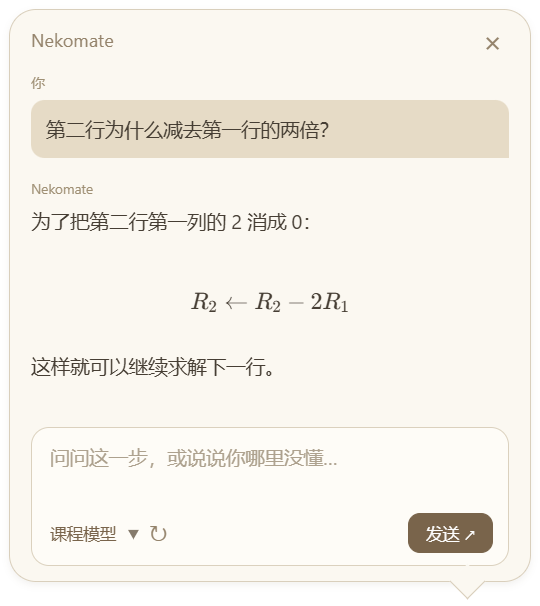
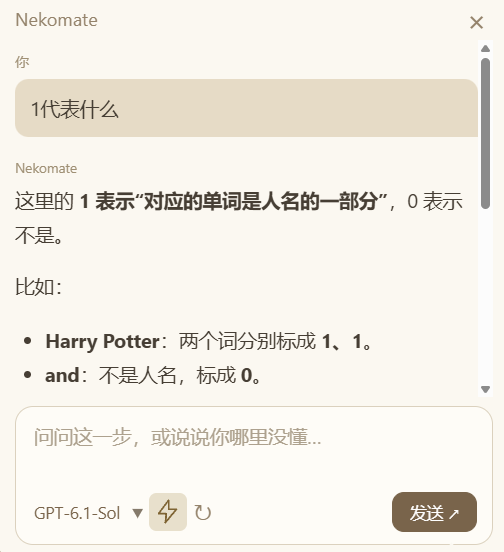
Add bilingual README and localized chat previews

diff --git a/README.en.md b/README.en.md
@@ -1,0 +1,200 @@
+<p align="center">
+  <a href="README.md">简体中文</a> | <strong>English</strong>
+</p>
+
+# Nekomate
+
+Online lectures can be difficult and fast-paced. You want to ask an AI what the instructor meant, so you take a screenshot, rewind to quote them, and explain what came before—only to get an answer that misses the point because the model lacks the course context. Nekomate is here to help! No more taking screenshots by hand or struggling to explain the context of your lecture. Your little cat classmate has you covered!
+
+Nekomate is your little cat classmate, keeping you company during online classes. When something confuses you, just ask, “What does the orange rectangle on the slide mean?” You do not have to explain, “I'm taking a course on… The instructor was just talking about… Look at this screenshot and tell me what xxx means in that sentence. Earlier, they said…” Like a classmate sitting beside you, Nekomate follows the course and what the instructor was just explaining. Ask your question and get a clear, accurate explanation!
+
+<div align="center">
+
+<img src="assets/nekomate.png" alt="Nekomate cat" width="112" />
+
+<h1>Nekomate</h1>
+
+<p><strong>Your little cat classmate. Let's learn together!</strong></p>
+<p>Focus on your questions, with the context taken care of.</p>
+
+<p>
+  <img src="https://img.shields.io/badge/Windows-10%20%2F%2011%20x64-8B7355?style=flat-square" alt="Windows 10 / 11 x64" />
+  <img src="https://img.shields.io/badge/status-0.1%20preview-B39972?style=flat-square" alt="0.1 early preview" />
+  <img src="https://img.shields.io/badge/UI-Chinese%20%2F%20English-8B7355?style=flat-square" alt="Chinese and English interface" />
+  <img src="https://img.shields.io/badge/ASR-local-B39972?style=flat-square" alt="Local speech transcription by default" />
+</p>
+
+<p>
+  <a href="#preview">Preview</a> ·
+  <a href="#quick-start">Quick start</a> ·
+  <a href="#features">Features</a> ·
+  <a href="#connections">Model connections</a> ·
+  <a href="#faq">FAQ</a> ·
+  <a href="#development">Development</a>
+</p>
+
+</div>
+
+---
+
+When something in a lecture confuses you, you may only want to ask, “What did the instructor mean by…?” But to help the model understand, you end up taking screenshots, rewinding the video, quoting the instructor, and filling in the background.
+
+Nekomate handles that preparation in the background: it samples the course window you select, captures the current screen when you ask a question, transcribes the recent explanation, and adds the new material to your current learning conversation. Ask directly and follow up without introducing the course from scratch each time.
+
+> “Why can we rearrange it like this?”　“What is $W$ here?”　“How does this relate to the earlier definition?”
+
+<a id="preview"></a>
+
+## Your little cat classmate, right there with you in class
+
+<p align="center">
+  <img src="docs/bubble.en.png" alt="English translation of a Nekomate chat explaining how words in a person's name are labeled" width="440" />
+</p>
+
+<p align="center"><sub>Chat preview, translated into English · Ask directly about what you do not understand in the course.</sub></p>
+
+Click the cat to open the chat, then close the bubble to keep watching. Right-click to open settings, pause learning, or start a new learning session. Drag the cat off the edge of the screen to leave just two ears showing; move the mouse nearby to reveal a little forehead, then click to bring the cat back. While listening to class, the cat sits still with an open book in front of it.
+
+<a id="quick-start"></a>
+
+## Quick start
+
+For **Windows 10/11 x64**. Download the latest version from Releases, or install Node.js 22+ (24 recommended) and run the following in a terminal:
+
+```bash
+git clone https://github.com/dmkom522/Nekomate.git
+cd Nekomate
+npm ci
+npm start
+```
+
+Before the first launch from source, the local speech model and runtime are downloaded and verified, so an internet connection is required. You do not need to install Python separately. See the [license notes](#license) below for the binary release status.
+
+1. **Connect a model.** Right-click the cat to open API Settings, then choose a service, connection method, and model that supports image input. API connections use your own key; CLI tools must be installed and signed in beforehand. Save your configuration before starting a learning session.
+2. **Choose your course.** Select the browser, video player, or slide window you are watching, check the preview, and start learning. On Windows, you can choose whether to capture system audio.
+3. **Ask directly.** Click the cat and type what you do not understand. A fresh screenshot is sent together with your question, and the answer appears progressively in the chat bubble.
+
+Nekomate does not include model credits. Usage fees, account permissions, and service limits are determined by your chosen API or CLI provider. See the [User Guide](docs/USER_GUIDE.md) for detailed instructions.
+
+<a id="features"></a>
+
+## Let Nekomate handle the context so you can focus on class
+
+| Feature | What it does for you |
+| --- | --- |
+| Direct image input when you ask | Captures the current course screen and sends it with your question, saving you from taking screenshots or describing where to look. |
+| Course context collected in the background | Automatic screenshots are at least 30 seconds apart, with no repeat submissions when the screen has not changed significantly. Visible concepts, formulas, and derivations are recorded. Early in a new conversation, Nekomate identifies the course; connections with web access can add relevant background. |
+| Local speech transcription by default | Uses Qwen3-ASR 0.6B for Chinese and English. It prefers the GPU and falls back to the same model on the CPU when necessary. When you ask a question, it processes only audio from the last two minutes that has not already been transcribed. |
+| One learning session, ongoing follow-ups | New images, transcripts, and questions are added to the current learning conversation. A separate conversation is created only when you start a new learning session; previous courses remain in history. |
+| Recording continues while an answer is generated | Screenshots are saved and queued during answers, then processed into notes afterward. Pending screenshots already saved to disk can continue processing after a restart. |
+| Organizing and reading | Search, rename, and delete history; keep separate input drafts; and read Markdown, LaTeX formulas, and code. Switch the interface between Chinese and English. |
+
+The screen is sampled, and audio is retained in a rolling two-minute buffer. **This is not a full recording of the course.** If you go a long time without asking a question, older audio that has not been transcribed will be overwritten. Models can also misread formulas or terminology.
+
+<a id="connections"></a>
+
+## Use your own model
+
+| Service | API connection | Local CLI |
+| --- | --- | --- |
+| OpenAI | Chat Completions | Codex CLI |
+| DeepSeek | Direct DeepSeek API connection | — |
+| Claude | Anthropic Messages | Claude Code |
+| Other services / local APIs | OpenAI- or Claude-compatible formats | Either CLI above, using its own configuration |
+
+**The selected model must support image input.** A service appearing in the list does not mean every model it offers can read images, or that your account has permission to use it. DeepSeek API connections go directly to DeepSeek, without routing through Claude Code.
+
+CLI mode resumes the native session bound to the current learning conversation and appends new material. With a standard API, the application saves the complete conversation and sends the history according to the API protocol. Both are subject to model context limits and account usage limits. See the [Model Connection Guide](docs/CONNECTIONS.md) for setup instructions and interface requirements.
+
+Local transcription does not need a separate speech API key. If the currently selected model is confirmed to support audio transcription, settings will offer “Use the selected model for audio transcription.” It is **off by default** and reuses the same connection when enabled.
+
+<a id="faq"></a>
+
+## FAQ
+
+<details>
+<summary><strong>Does Nekomate keep taking screenshots when learning is paused?</strong></summary>
+
+No. Pausing learning stops new screen and audio capture, but pending screenshots saved earlier can still be processed into notes. Nekomate does not control the video player; you need to pause the video yourself.
+
+</details>
+
+<details>
+<summary><strong>If the video keeps playing during an answer, will later content be missed?</strong></summary>
+
+Screenshots continue in the background according to the sampling interval and screen-change rules. They are saved and queued, then processed after the answer finishes. Sampling can miss rapidly changing content. Pending screenshots confirmed as saved remain until their notes have been written successfully. Content that has not finished writing cannot be guaranteed to survive failures such as a power loss.
+
+</details>
+
+<details>
+<summary><strong>Does a transcription failure prevent me from asking a question?</strong></summary>
+
+The application shows a transcription error and still answers using the current screen and existing material. Without audio material, the model does not gain access to the instructor's exact words. On Windows, capture uses mixed system audio, which may include sounds from other applications. The microphone is not captured automatically.
+
+</details>
+
+<details>
+<summary><strong>Where do screenshots, recordings, and keys go?</strong></summary>
+
+Nekomate has no hosted backend, user accounts, or telemetry. Screenshots, questions, and transcript text are sent to the model service you choose. By default, raw audio is kept in a rolling buffer in local memory and transcribed locally. Audio is uploaded only when you explicitly enable transcription with your selected model.
+
+Pending screenshots, learning records, and session data are stored locally. Submitted images may also remain in API conversations or native CLI history. Deleting a pending-image cache or the history shown in the interface does not delete your provider's or CLI's history. Keys are protected using the operating system's encrypted storage; if that service is unavailable, they are kept only in memory.
+
+</details>
+
+<details>
+<summary><strong>Are macOS and Linux supported?</strong></summary>
+
+Windows x64 is the current target. The repository includes build entry points for other platforms, but the local transcription runtime, screen capture, and system audio have not yet completed compatibility testing on those platforms.
+
+</details>
+
+<a id="development"></a>
+
+## Help make the cat better
+
+We welcome course scenarios that leave you stuck, reproduction steps, and interface suggestions. Remove keys and personal information before sharing screenshots or logs.
+
+| What you want to do | Start here |
+| --- | --- |
+| Learn everyday operations | [User Guide](docs/USER_GUIDE.md) |
+| Configure an API or CLI | [Connection Guide](docs/CONNECTIONS.md) |
+| Run, test, and build | [Development Guide](docs/DEVELOPMENT.md) |
+| Understand test coverage and unverified areas | [Validation Notes](docs/VALIDATION.md) |
+| Report issues or contribute code | [Issues](https://github.com/dmkom522/Nekomate/issues) · [Contributing Guide](CONTRIBUTING.md) |
+| Report a security issue | [Security Policy](SECURITY.md) |
+
+<details>
+<summary><strong>Common development commands</strong></summary>
+
+```bash
+npm test              # Core logic and local interface tests
+npm run check         # JavaScript syntax checks
+npm run test:desktop  # Desktop integration tests
+```
+
+Automated tests, real window capture, and real model comprehension provide different levels of verification. See the validation notes for the scope of each.
+
+</details>
+
+<a id="license"></a>
+
+## License and acknowledgments
+
+Nekomate's own code is released under the [MIT License](LICENSE). Default speech transcription uses inference components from [Qwen3-ASR-GGUF](https://github.com/HaujetZhao/Qwen3-ASR-GGUF) and the Qwen3-ASR model. Third-party components are subject to their own terms; see the [Third-Party Notices](assets/licenses/SPEECH-NOTICES.txt).
+
+Explicit redistribution permission for the currently pinned Qwen GGUF inference implementation has not yet been confirmed, so automatic publishing of installers containing it is disabled by default. The Qwen model's Apache-2.0 license is separate from the inference implementation's license. See the [provenance notes](assets/licenses/Qwen-GGUF-NOTICE.txt) for the recorded findings.
+
+<div align="center">
+  <sub>Make time for thinking.</sub>
+</div>
+
+## Contribute
+
+Help improve Nekomate! [Open an issue](https://github.com/dmkom522/Nekomate/issues) to report a bug or suggest a feature, or [submit a pull request](https://github.com/dmkom522/Nekomate/pulls) to improve the code or documentation.
+
+See the [Contributing Guide](CONTRIBUTING.md) for details.
+
+Nekomate's own code uses the MIT License. Third-party models, inference implementations, and runtimes are subject to their own terms. See the [Third-Party Notices](assets/licenses/SPEECH-NOTICES.txt) for their sources.
+
+Made for the moments that make you pause and think.
